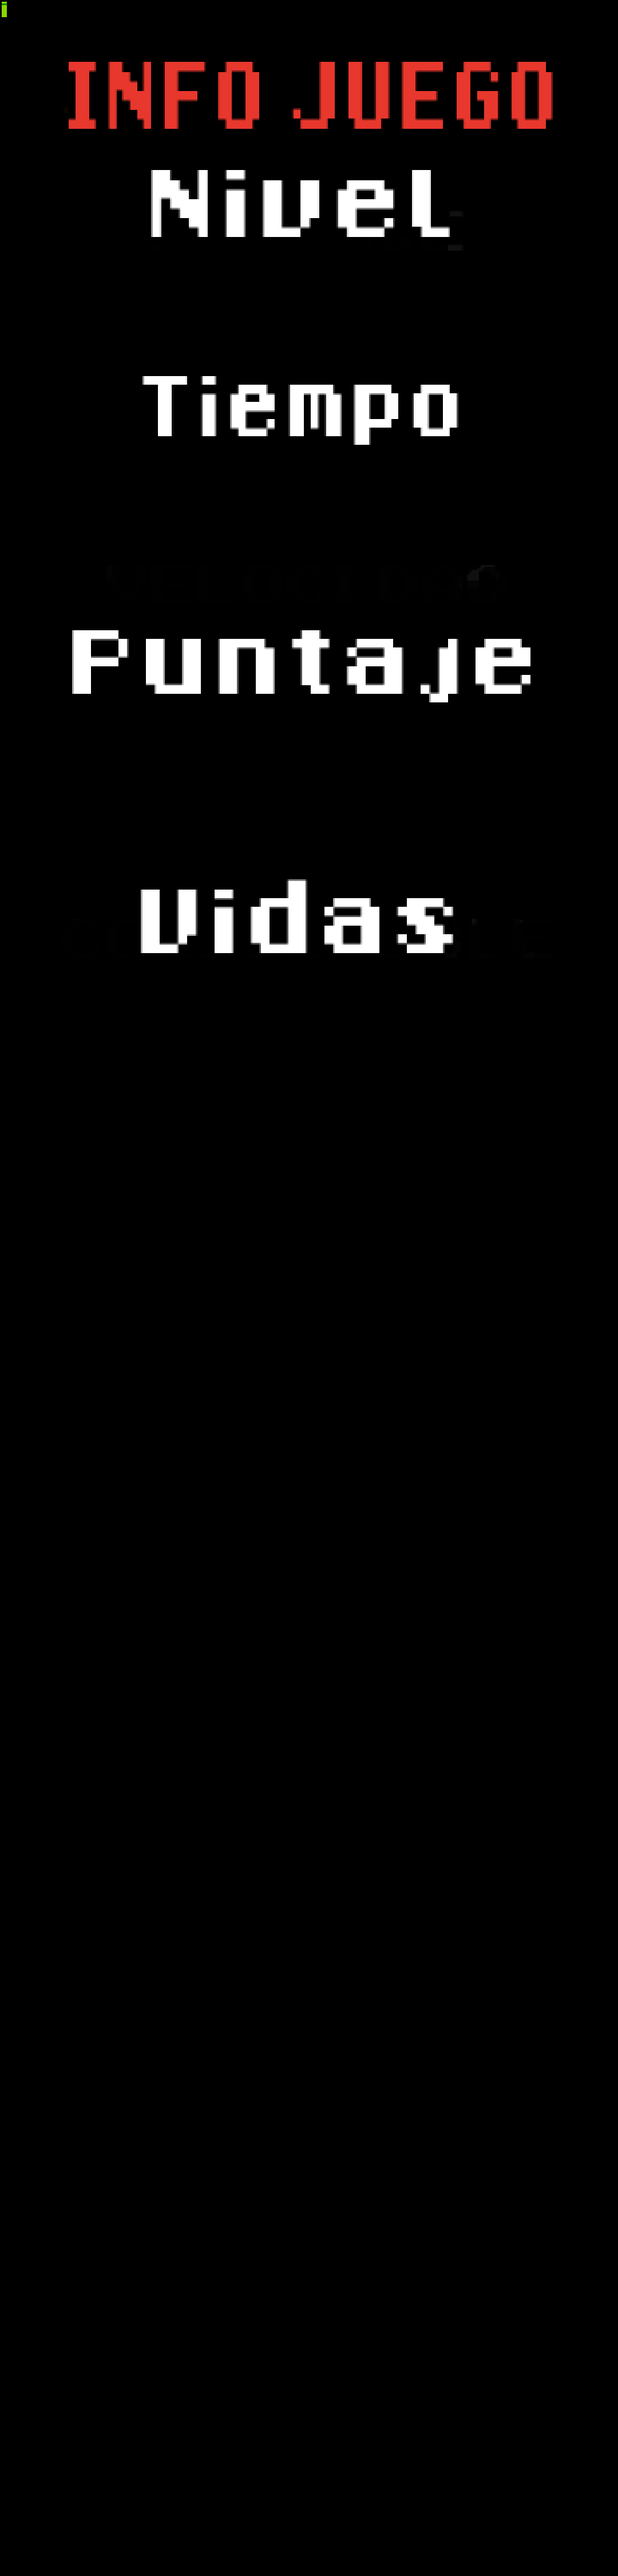
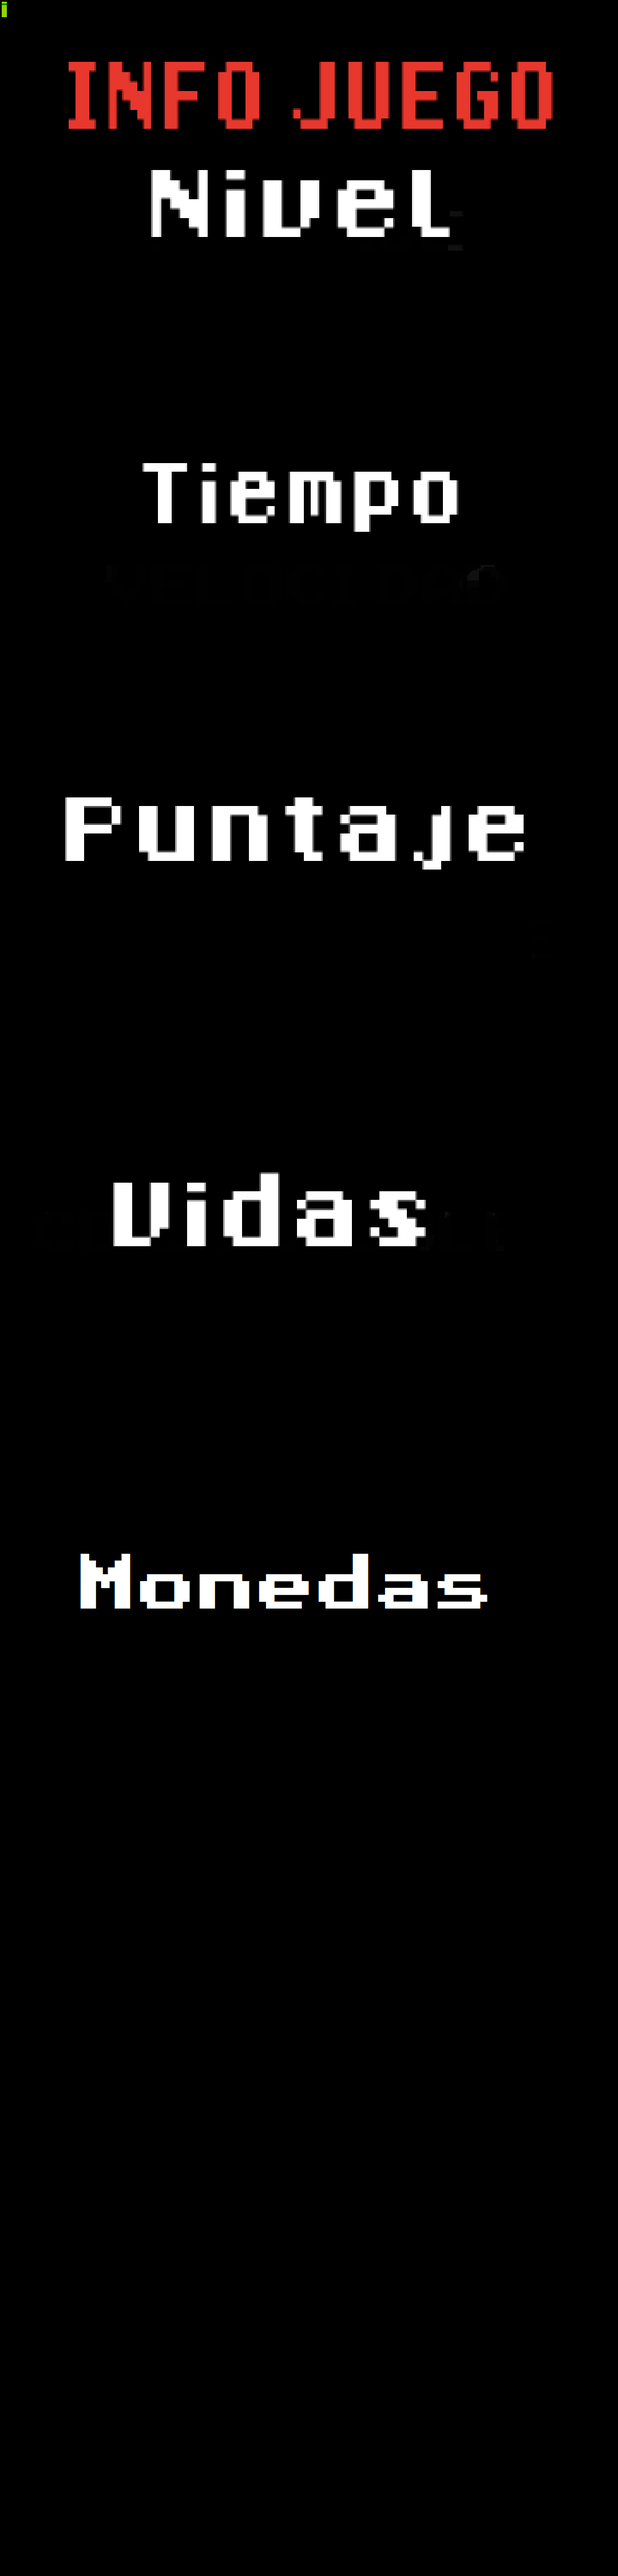
visitors powerUps andando (solo falta la estrella)

diff --git a/src/Paneles/PanelPantallaJuego.java b/src/Paneles/PanelPantallaJuego.java
@@ -25,6 +25,8 @@ public class PanelPantallaJuego extends JPanel {
     private JLabel imagenFondoPanelInformacion;
     private JScrollPane panelPantallaJuego;
     private JLabel labelPuntaje;
+    private JLabel labelMonedas;
+    private JLabel labelVidas;
     private int posicionXAnterior = 0;
     private int posicionYAnterior = 0;
 
@@ -64,13 +66,23 @@ public class PanelPantallaJuego extends JPanel {
         return observerEntidad;
     }
 
-    protected void actualizarInfoJugador(EntidadJugador jugador) {
+    public void actualizarInfoJugador(EntidadJugador jugador) {
         actualizarLabelsInformacion(jugador);
+        actualizarLabelsMonedas(jugador);
+        actualizarLabelsVidas(jugador);
         actualizarScrollHaciaJugador(jugador);
+    }
+
+    protected void actualizarLabelsVidas(EntidadJugador jugador) {
+        labelVidas.setText(textoConCantidadDigitos(jugador.getVidas(), 5));
     }
 
     protected void actualizarLabelsInformacion(EntidadJugador jugador) {
         labelPuntaje.setText(textoConCantidadDigitos(jugador.getPuntaje(), 5));
+    }
+    
+    protected void actualizarLabelsMonedas(EntidadJugador jugador) {
+        labelMonedas.setText(textoConCantidadDigitos(jugador.getMonedas(), 5));
     }
 
     protected String textoConCantidadDigitos(int numero, int digitos) {
@@ -170,6 +182,8 @@ public class PanelPantallaJuego extends JPanel {
         panelInformacion.setPreferredSize(new Dimension(ConstantesVistas.PANEL_INFORMACION_ANCHO, ConstantesVistas.PANEL_ALTO));
         agregarImagenFondoPanelInformacion();
         agregarLabelsEditablesInformacion();
+        agregarLabelsEditablesMonedas();
+        agregarLabelsEditablesVidas();
         add(panelInformacion, BorderLayout.EAST);
     }
 
@@ -183,15 +197,39 @@ public class PanelPantallaJuego extends JPanel {
         panelInformacion.add(imagenFondoPanelInformacion);
     }
 
+    protected void agregarLabelsEditablesVidas() {
+        labelVidas = new JLabel("00000");
+        decorarLabelsVidas();
+        imagenFondoPanelInformacion.add(labelVidas);
+    }
+
     protected void agregarLabelsEditablesInformacion() {
         labelPuntaje = new JLabel("00000");
         decorarLabelsInformacion();
         imagenFondoPanelInformacion.add(labelPuntaje);
     }
 
+    protected void decorarLabelsVidas() {
+        labelVidas.setBounds(49, 365, 150, 50);
+        labelVidas.setForeground(Color.WHITE);
+        labelVidas.setFont(new Font(labelPuntaje.getFont().getName(), Font.BOLD, 24));
+    }
+
     protected void decorarLabelsInformacion() {
-        labelPuntaje.setBounds(49, 120, 150, 50);
+        labelPuntaje.setBounds(49, 255, 150, 50);
         labelPuntaje.setForeground(Color.WHITE);
         labelPuntaje.setFont(new Font(labelPuntaje.getFont().getName(), Font.BOLD, 24));
+    }
+
+    protected void agregarLabelsEditablesMonedas() {
+        labelMonedas = new JLabel("00000");
+        decorarLabelsMonedas();
+        imagenFondoPanelInformacion.add(labelMonedas);
+    }
+
+    protected void decorarLabelsMonedas() {
+        labelMonedas.setBounds(49, 475, 150, 50);
+        labelMonedas.setForeground(Color.WHITE);
+        labelMonedas.setFont(new Font(labelMonedas.getFont().getName(), Font.BOLD, 24));
     }
 }

diff --git a/src/Logica/Logica.java b/src/Logica/Logica.java
@@ -35,6 +35,7 @@ public class Logica {
 		fabricaEntidades = new EntidadesFactory(fabricaSprites);
         parseint = new Parserint(1,fabricaEntidades);
         parseint = new Parserint(1,fabricaEntidades);
+		vidas = 3;
     }
    
     public void setControladorVistas(GUI controladorVistas) {
@@ -44,6 +45,7 @@ public class Logica {
 
     public void iniciar() {
 		nivelActual = parseint.generarNivel(1);
+		nivelActual.getMario().setLogica(this);
 		registrarObservers();
 		gui.mostrarPantallaJuego();
 		hilo1 = new HiloMario(nivelActual.getMario(),gui,this);
@@ -52,7 +54,6 @@ public class Logica {
 		hilo2.start();
 		hiloPrincipal = new HiloPrincipal(gui,this);
 		hiloPrincipal.start();
-		nivelActual.getMario().setLogica(this);
 		
 	}
 
@@ -132,7 +133,7 @@ public class Logica {
 	}
 
 	public void actualizarVida() {
-		vidas= vidas ++;
+		vidas++;
 	}
 
 	public void aniadirMoneda() {
@@ -149,5 +150,9 @@ public class Logica {
 
 	public int getVidas() {
 		return vidas;
+	}
+
+	public int getMonedas(){
+		return monedas;
 	}
 }

diff --git a/src/Estados/EstadoMarioEstrella.java b/src/Estados/EstadoMarioEstrella.java
@@ -3,18 +3,29 @@ package Estados;
 import Entidades.Mario;
 
 public class EstadoMarioEstrella implements EstadoMario{
+    
     protected Mario m;
-    protected static final int paddingTamanio = 24;
+    protected static final int paddingTamanio = 48;
+    
     public EstadoMarioEstrella(Mario mario){
         m = mario;
     }
+    
     public void disparar(){}
-    public void recibirDanio(){}
+    
+    public void recibirDanio(){
+        
+    }
+    
     public boolean puedeRomper(){
         return true;
     }
 
     public int getPaddingTamanio() {
         return paddingTamanio;
+    }
+    @Override
+    public int getModificador() {
+        return 9;
     }
 }

diff --git a/src/Visitors/VisitorEstrella.java b/src/Visitors/VisitorEstrella.java
@@ -8,6 +8,8 @@ import Enemigos.PiranhaPlant;
 import Enemigos.Spiny;
 import Entidades.BolaDeFuego;
 import Entidades.Mario;
+import Estados.EstadoMarioEstrella;
+import Estados.EstadoMarioFuego;
 import Plataformas.BloqueIrrompible;
 import Plataformas.LadrilloRompible;
 import Plataformas.Meta;
@@ -37,7 +39,7 @@ public class VisitorEstrella extends VisitorPowerUp{
     public void visit(Spiny s, int direccion){}
     @Override
     public void visit(Mario m, int direccion){
-        m.actualizarEstadoMario(ConstantesPowerUp.ESTRELLA);
+        //m.setEstado(new EstadoMarioEstrella(m)); 
     }
     @Override
     public void visit(ChampinionVerde cv, int direccion){}

diff --git a/src/Visitors/VisitorFlorDeFuego.java b/src/Visitors/VisitorFlorDeFuego.java
@@ -41,12 +41,7 @@ public class VisitorFlorDeFuego extends VisitorPowerUp{
     public void visit(Spiny s, int direccion){}
     @Override
     public void visit(Mario m, int direccion){
-        if(m.getEstado().getModificador() == ConstantesPowerUp.SUPERCHAMPINION){
             m.setEstado(new EstadoMarioFuego(m)); 
-        }
-        else {
-             m.setEstado(new EstadoSuperMario(m));
-        }
     }
     @Override
     public void visit(ChampinionVerde cv, int direccion){}

diff --git a/src/GUI/ObserverJugador.java b/src/GUI/ObserverJugador.java
@@ -24,6 +24,6 @@ public class ObserverJugador extends ObserverGrafico{
 
 	public void actualizar(int direccion, int estadoAereo) {
 		super.actualizar(direccion, estadoAereo);
-		panelPantallaJuego.actualizarScrollHaciaJugador(entidadObservada);
+		panelPantallaJuego.actualizarInfoJugador(jugadorObservado);
 	}
 }

diff --git a/src/Estados/EstadoMarioFuego.java b/src/Estados/EstadoMarioFuego.java
@@ -3,8 +3,10 @@ package Estados;
 import Entidades.Mario;
 
 public class EstadoMarioFuego implements EstadoMario{
+    
     protected Mario m;
     protected static final int paddingTamanio = 48;
+    
     public EstadoMarioFuego(Mario mario){
         m = mario;
     }

diff --git a/src/Entidades/Mario.java b/src/Entidades/Mario.java
@@ -214,6 +214,11 @@ public class Mario extends Entidad implements EntidadJugador{
     
     public void setLogica(Logica l){
         miLogica = l;
+    }
+
+    @Override
+    public int getMonedas() {
+        return miLogica.getMonedas();
     } 
     
 }

diff --git a/src/Entidades/EntidadJugador.java b/src/Entidades/EntidadJugador.java
@@ -6,4 +6,6 @@ public interface EntidadJugador extends EntidadLogica {
     public int getTiempo();
 
     public int getVidas();
+
+    public int getMonedas();
 }
